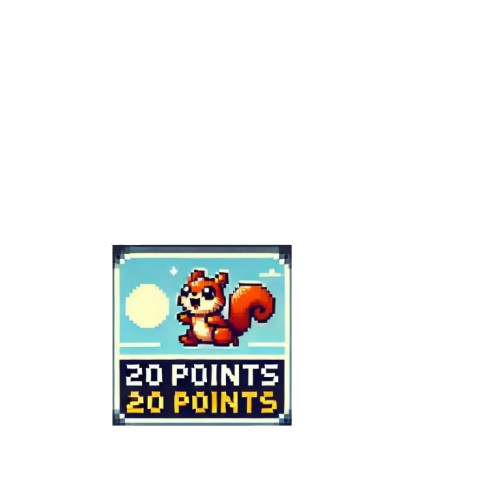
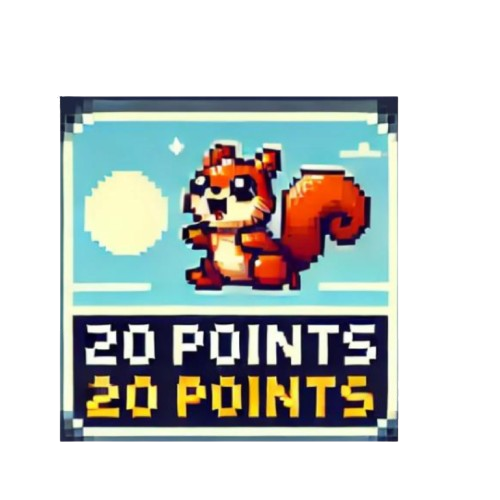
achievements fix

diff --git a/src/constants/achievements.ts b/src/constants/achievements.ts
@@ -1,3 +1,5 @@
+import firstPlayedGameIcon from 'assets/firstGamePlayed.png';
+import twentyPointsIcon from 'assets/twentyPoints.png';
 export interface Achievement {
     id: string;
     name: string;
@@ -10,15 +12,15 @@ export interface Achievement {
     {
       id: 'first_game',
       name: 'First Steps',
-      description: 'Play your first game.',
-      icon: '/assets/firstGamePlayed.png',
+      description: 'Play your first g ame.',
+      icon: firstPlayedGameIcon,
       condition: (userData) => userData.gamesPlayed >= 1,
     },
     {
       id: 'score_20',
       name: 'Scored 20',
       description: 'Score 20 points in a single game.',
-      icon: '/assets/twentyPoints.png',
+      icon: twentyPointsIcon,
       condition: (userData) => userData.highestScore >= 20,
     },
     // Add more achievements as needed

diff --git a/src/components/Profile/profile.scss b/src/components/Profile/profile.scss
@@ -74,8 +74,8 @@
   }
   
   .achievement-icon {
-    width: 50px;
-    height: 50px;
+    width: 200px;
+    height: 200px;
   }
   
   .achievement-icon.locked {
